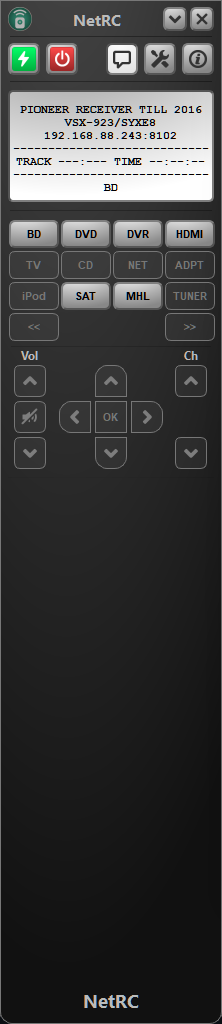
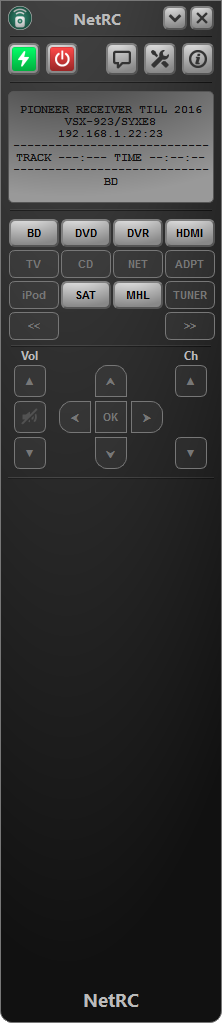
some changes to support QT 6.9

diff --git a/src/remotecontrol.cpp b/src/remotecontrol.cpp
@@ -662,6 +662,7 @@ void RemoteControl::commConnected() {
         this->setWindowTitle(app);
         if (RCSettings::isMinimizeToTrayEnabled()) {
             trayIcon->showMessage(deviceName, "Connected", QIcon(QString(":/images/").append(qApp->applicationName()).append(".png")));
+            //ui->statusDisplayWidget->setEnabled(true);
             trayIcon->setToolTip(app);
         }
     }
@@ -677,6 +678,7 @@ void RemoteControl::commDisconnected() {
     deviceOnline = false;
     if(trayIcon->icon().data_ptr() != trayGray.data_ptr()) {
         trayIcon->setIcon(trayGray);
+        ui->statusDisplayWidget->setEnabled(false);
     }
 }
 

diff --git a/src/autosearchdialog.cpp b/src/autosearchdialog.cpp
@@ -21,8 +21,10 @@
 #include <QClipboard>
 #include <QRegularExpression>
 #include <QtNetwork>
-#include <QtXml>
+#include <QtXmlDepends>
 #include <QMenu>
+#include <QDomDocument>
+
 
 string trim(const string &t, const string &ws) {
     string str = t;
